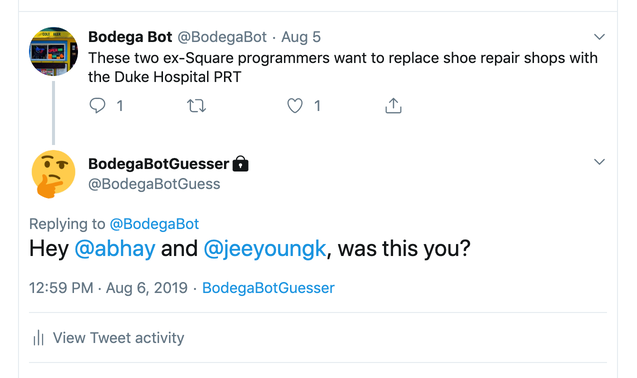
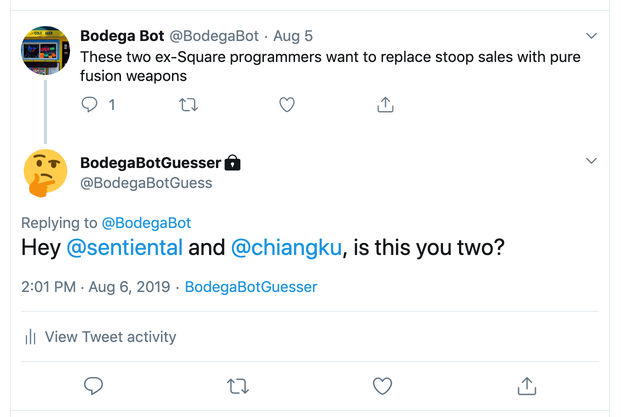
Update tweet format

diff --git a/spec/bodega_bot_guesser/generator_spec.rb b/spec/bodega_bot_guesser/generator_spec.rb
@@ -48,8 +48,8 @@ RSpec.describe BodegaBotGuesser::Generator do
 
       it 'generates a tweet' do
         expect(generator.generate_tweet_text).
-          to eq('@bodegabot Hey @c and @d, was this you?').
-          or eq('@bodegabot Hey @d and @c, was this you?')
+          to eq('@bodegabot Hey @c and @d, is this you two?').
+          or eq('@bodegabot Hey @d and @c, is this you two?')
       end
     end
 

diff --git a/lib/bodega_bot_guesser/generator.rb b/lib/bodega_bot_guesser/generator.rb
@@ -22,7 +22,7 @@ module BodegaBotGuesser
       return nil if employees.count < 2
 
       guesses = employees.sample(2).map { |username| "@#{username}" }
-      "@#{username} Hey %s and %s, was this you?" % guesses
+      "@#{username} Hey %s and %s, is this you two?" % guesses
     end
 
     # Parses a tweet via regex
